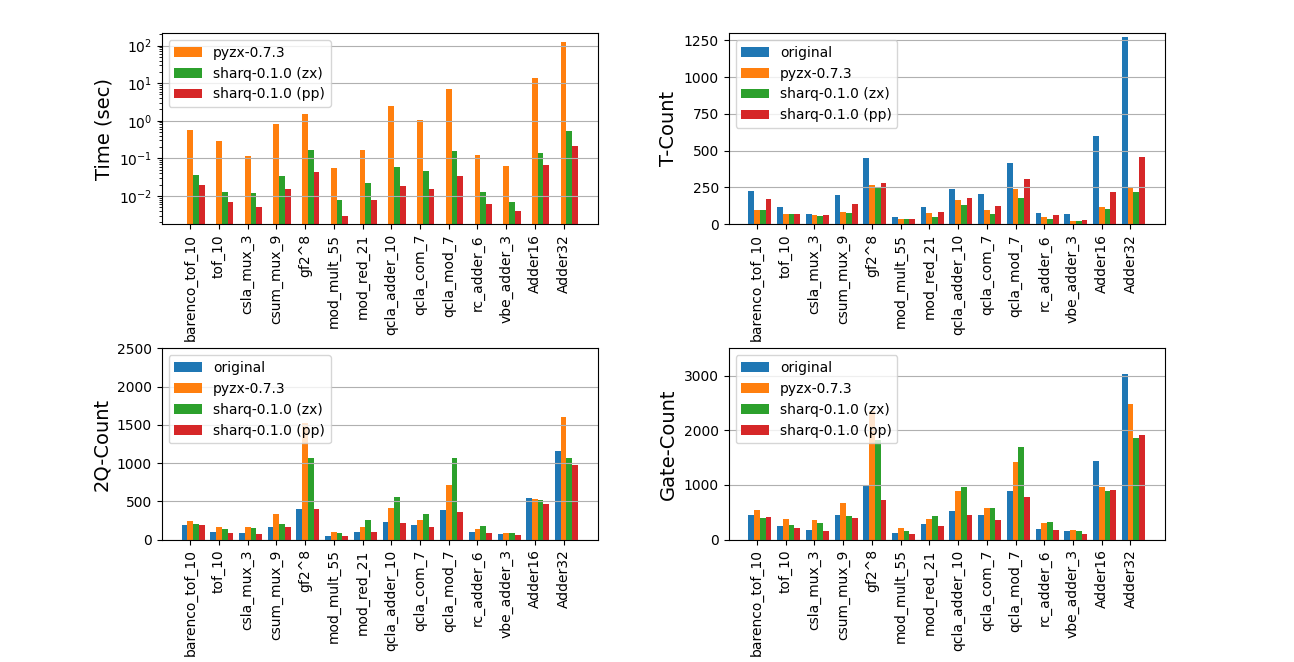
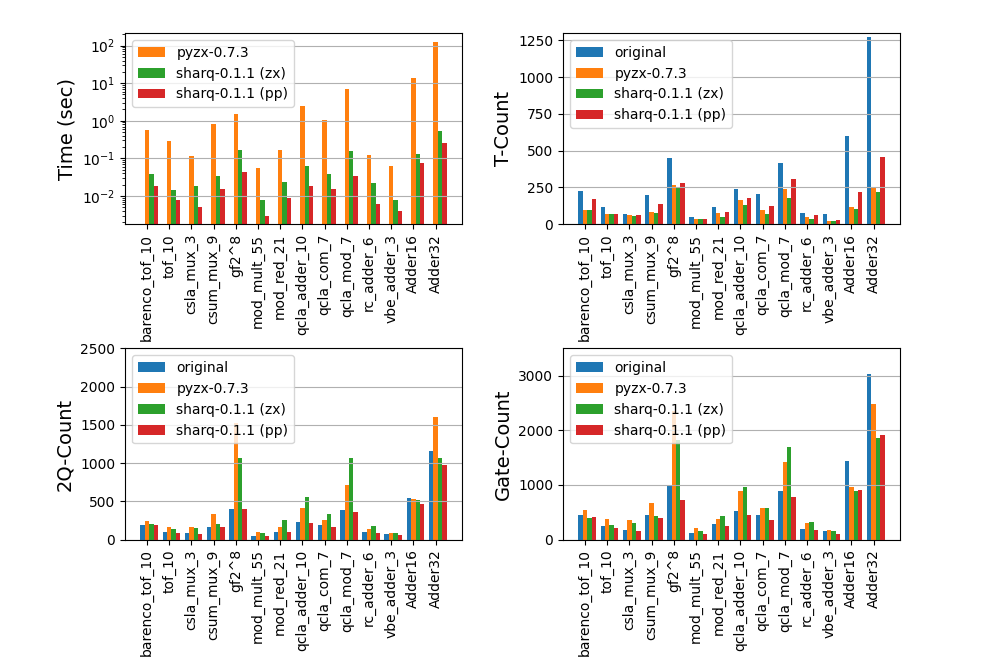
update benchmarks

diff --git a/benchmarks/make_plot.py b/benchmarks/make_plot.py
@@ -2,8 +2,8 @@ import matplotlib.pyplot as plt
 
 ORI_LABEL="original"
 PYZX_LABEL="pyzx-0.7.3"
-SHARQ_ZX_LABEL="sharq-0.1.0 (zx)"
-SHARQ_PP_LABEL="sharq-0.1.0 (pp)"
+SHARQ_ZX_LABEL="sharq-0.1.1 (zx)"
+SHARQ_PP_LABEL="sharq-0.1.1 (pp)"
 
 def main():
 
